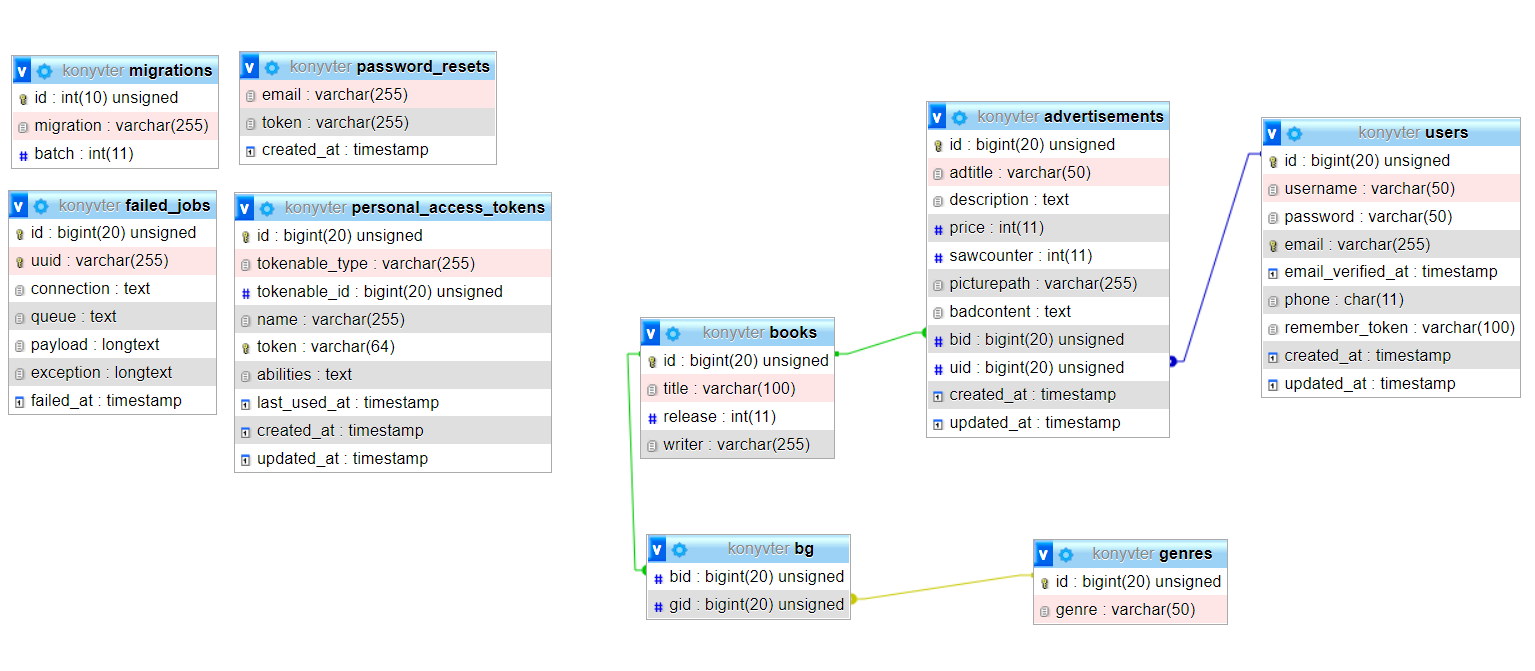
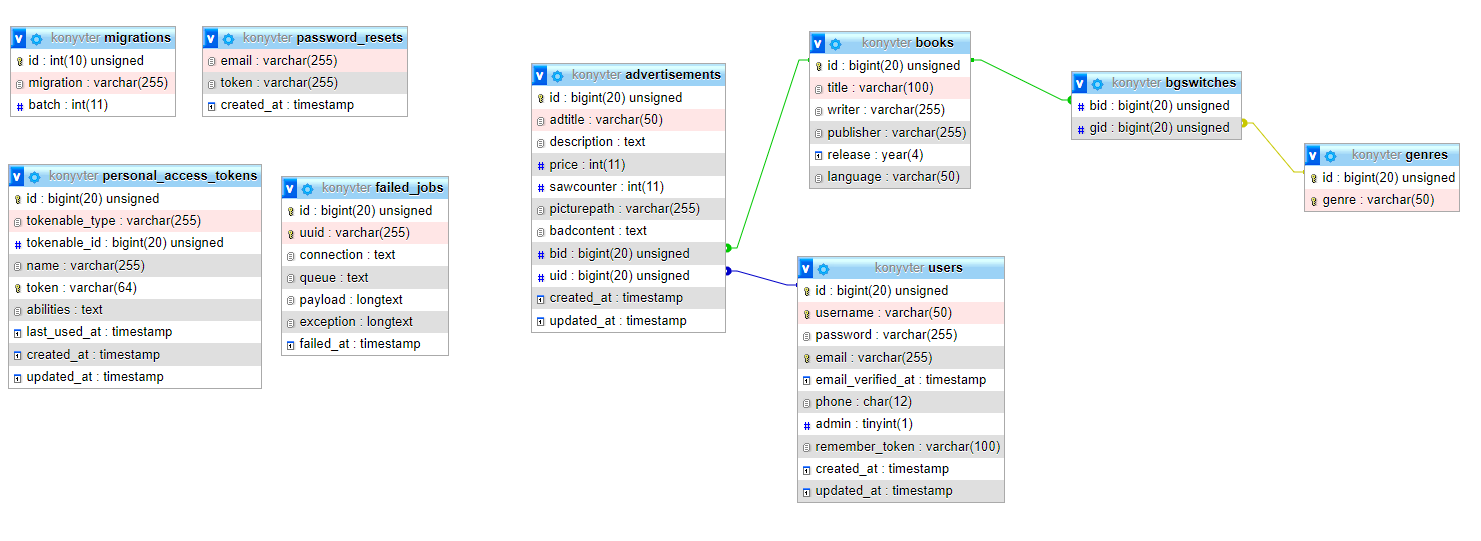
adatbázis módosítva, Bgswitch model létrehozva

diff --git a/api/konyvter/database/migrations/2022_02_06_555555_create_bgswitches_table.php b/api/konyvter/database/migrations/2022_02_06_555555_create_bgswitches_table.php
@@ -4,7 +4,7 @@ use Illuminate\Database\Migrations\Migration;
 use Illuminate\Database\Schema\Blueprint;
 use Illuminate\Support\Facades\Schema;
 
-class CreateBgTable extends Migration
+class CreateBgswitchesTable extends Migration
 {
     /**
      * Run the migrations.
@@ -13,7 +13,7 @@ class CreateBgTable extends Migration
      */
     public function up()
     {
-        Schema::create('bg', function (Blueprint $table) {
+        Schema::create('bgswitches', function (Blueprint $table) {
             $table->foreignId('bid')->constrained('books');
             $table->foreignId('gid')->constrained('genres');
         });
@@ -26,6 +26,6 @@ class CreateBgTable extends Migration
      */
     public function down()
     {
-        Schema::dropIfExists('bg');
+        Schema::dropIfExists('bgswitches');
     }
 }

diff --git a/api/konyvter/app/Models/Bgswitch.php b/api/konyvter/app/Models/Bgswitch.php
@@ -1,0 +1,16 @@
+<?php
+
+namespace App\Models;
+
+use Illuminate\Database\Eloquent\Factories\HasFactory;
+use Illuminate\Database\Eloquent\Model;
+
+class Bgswitch extends Model
+{
+    use HasFactory;
+
+    protected $fillable = [
+        "bid",
+        "gid"
+    ];
+}
